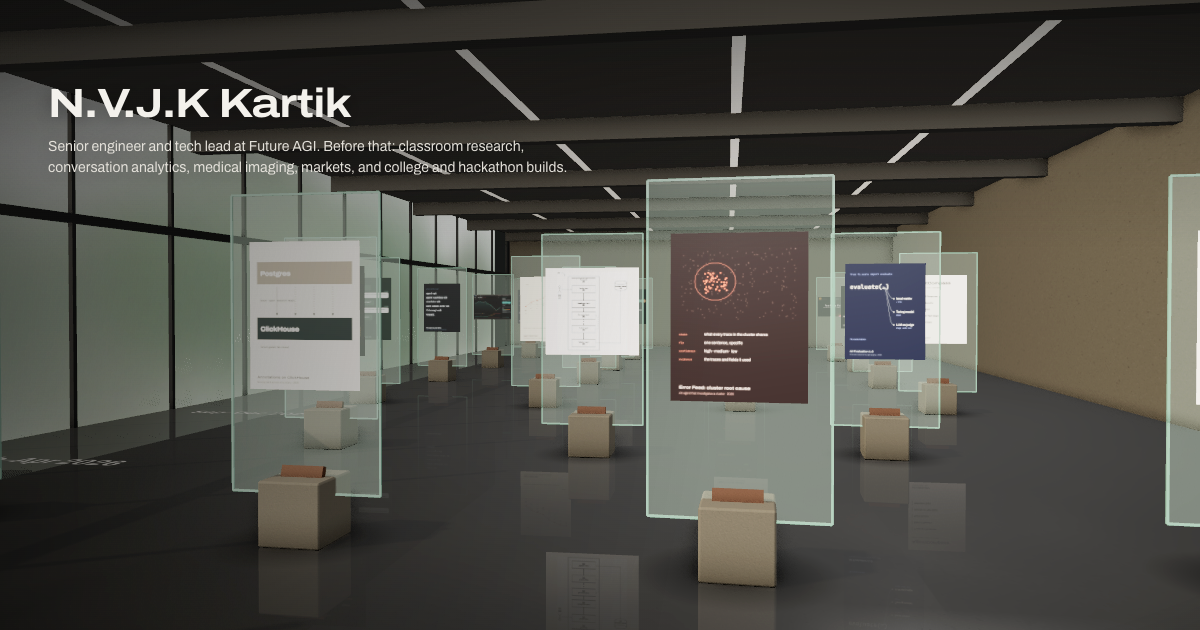
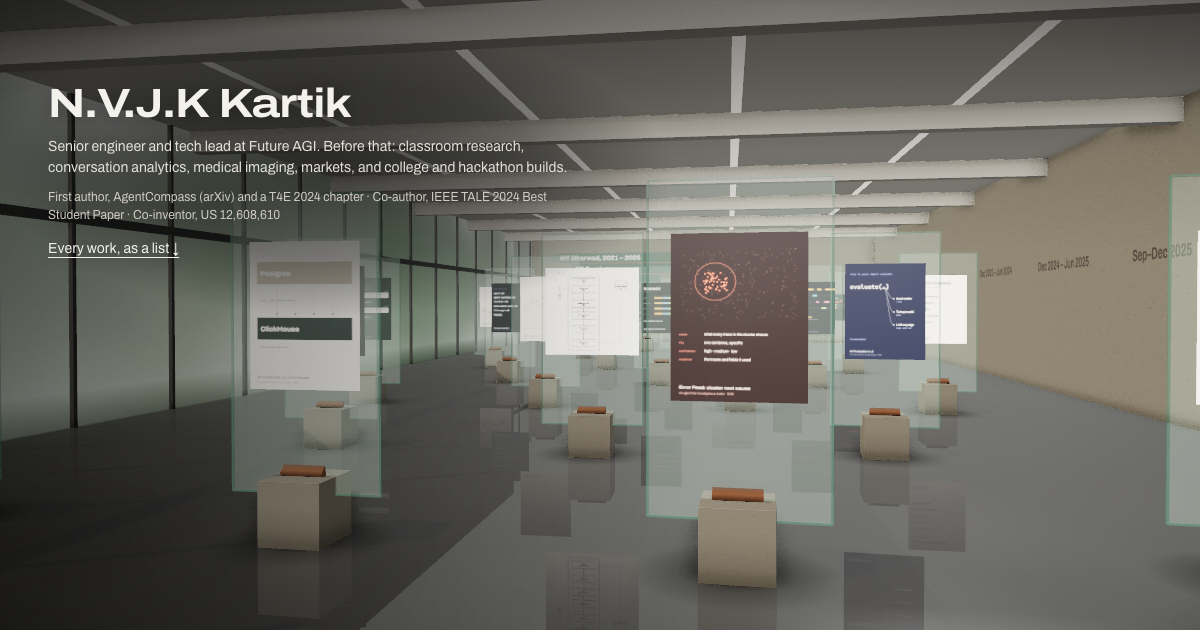
feat(hall): close the room and paint two walls
- A front wall now closes the room behind the entrance (it was open to the
  void; turning round showed the grey background). It faces away from the sun,
  so it gets a small emissive lift.
- The exit wall carries the credits: everyone the easel labels credit, by place,
  oldest first, spelled as credited. content/hall.ts fails the build if a name
  isn't credited on some easel.
- The back wall carries where the work was made: a painted bar per dated
  journey stop on a Jan 2023 to now axis. Year-only ends fade across the year;
  Future AGI shows intern, then full-time.
- The drawn plan closes the entrance wall; posters and OG images regenerated.

diff --git a/site/components/hall/walls.ts b/site/components/hall/walls.ts
@@ -1,0 +1,167 @@
+// The two painted walls, drawn onto canvases the engine hangs on the concrete. Both are paint, not
+// signage: flat colour, big type, nothing thin enough to shimmer as the camera moves.
+// Coordinates are in metres of wall (m = pixels per metre); every wall is 14.2 m wide.
+import type { CreditGroup, Place } from '@/content/hall';
+
+const WALL = 14.2;
+
+/**
+ * The exit wall: "The work in this hall was made with", then every credited name, grouped by place,
+ * flowed through balanced columns so each place gets wall in proportion to its people.
+ * The canvas is a band 2.7 m tall whose top sits 3.55 m above the floor.
+ */
+export function drawCredits(g: CanvasRenderingContext2D, W: number, groups: CreditGroup[], font: string) {
+  const m = W / WALL;
+  const size = 0.19 * m,
+    lead = 0.29 * m;
+  const F = { head: `620 semi-expanded ${size}px ${font}`, name: `430 ${size}px ${font}`, intro: `600 semi-expanded ${size}px ${font}` };
+  type Line = [keyof typeof F, string] | ['gap'];
+  // A name longer than 2.4 m wraps onto two lines of about equal length, so no column grows wide
+  // enough to crowd the next and no word is left on its own.
+  const wrap = (k: keyof typeof F, t: string): Line[] => {
+    g.font = F[k];
+    const w = (x: string) => g.measureText(x).width;
+    if (w(t) <= 2.4 * m) return [[k, t]];
+    const words = t.split(' ');
+    let best = 1;
+    for (let i = 2; i < words.length; i++)
+      if (
+        Math.max(w(words.slice(0, i).join(' ')), w(words.slice(i).join(' '))) <
+        Math.max(w(words.slice(0, best).join(' ')), w(words.slice(best).join(' ')))
+      )
+        best = i;
+    return [
+      [k, words.slice(0, best).join(' ')],
+      [k, words.slice(best).join(' ')],
+    ];
+  };
+  // Blocks never split across columns: the intro, each name, and each place heading with its first name.
+  const blocks: Line[][] = [
+    [
+      ['intro', 'The work'],
+      ['intro', 'in this hall'],
+      ['intro', 'was made with'],
+    ],
+  ];
+  groups.forEach(grp => {
+    blocks.push([['gap'], ['head', grp.place], ...wrap('name', grp.names[0])]);
+    grp.names.slice(1).forEach(n => blocks.push(wrap('name', n)));
+  });
+  const ROWS = 9;
+  const cols: Line[][] = [[]];
+  for (let blk of blocks) {
+    let c = cols[cols.length - 1];
+    if (c.length + blk.length > ROWS) {
+      cols.push((c = []));
+      if (blk[0][0] === 'gap') blk = blk.slice(1); // a gap never starts a column
+    }
+    c.push(...blk);
+  }
+  const width = (l: Line) => (l[0] === 'gap' ? 0 : ((g.font = F[l[0]]), g.measureText(l[1]).width));
+  const widths = cols.map(c => Math.max(0, ...c.map(width)));
+  const left = 0.6 * m,
+    right = W - 0.6 * m;
+  const gutter = (right - left - widths.reduce((a, b) => a + b, 0)) / Math.max(1, cols.length - 1);
+  g.fillStyle = 'rgba(246,244,239,.66)';
+  g.textBaseline = 'alphabetic';
+  let x = left;
+  cols.forEach((c, i) => {
+    let y = 0.3 * m; // first baseline 3.25 m above the floor
+    for (const l of c) {
+      if (l[0] !== 'gap') {
+        g.font = F[l[0]];
+        g.fillText(l[1], x, y);
+      }
+      y += lead;
+    }
+    x += widths[i] + gutter;
+  });
+}
+
+/**
+ * The back wall: where the work was made. One painted bar per place on a time axis from January 2023
+ * to this month. A year-only end fades across that year instead of claiming a month; a start before
+ * the axis fades in from its edge. A change of role (intern to full-time) changes the bar's tone.
+ * The canvas is the whole wall, 4.3 m tall.
+ */
+export function drawPlaces(g: CanvasRenderingContext2D, W: number, places: Place[], font: string, now = new Date()) {
+  const m = W / WALL;
+  const start = 2023 * 12,
+    end = now.getFullYear() * 12 + now.getMonth() + 1;
+  const X0 = 0.6 * m,
+    X1 = W - 0.6 * m;
+  const x = (month: number) => X0 + ((Math.min(end, Math.max(start, month)) - start) / (end - start)) * (X1 - X0);
+  const month = (s: string, edge: 'from' | 'to') =>
+    s === 'now' ? end : s.length === 4 ? +s * 12 + (edge === 'to' ? 12 : 0) : +s.slice(0, 4) * 12 + +s.slice(5, 7) - 1 + (edge === 'to' ? 1 : 0);
+  const deep = [61, 90, 80],
+    paint = (a: number) => `rgba(${deep.join(',')},${a})`;
+  const paper = 'rgba(246,244,239,.92)',
+    ink = 'rgba(27,28,28,.78)';
+  const pitch = 0.46 * m,
+    bh = 0.38 * m,
+    top = 0.55 * m,
+    fs = 0.25 * m,
+    pad = 0.14 * m;
+
+  // Year rules and numerals, thick enough to hold at the far end of the hall.
+  const bottom = top + places.length * pitch;
+  g.font = `700 semi-expanded ${0.5 * m}px ${font}`;
+  for (let y = 2023; y * 12 < end; y++) {
+    const at = x(y * 12);
+    if (y > 2023) {
+      g.fillStyle = 'rgba(27,28,28,.22)';
+      g.fillRect(at - 0.025 * m, top - 0.2 * m, 0.05 * m, bottom - top + 0.35 * m);
+    }
+    g.fillStyle = 'rgba(27,28,28,.5)';
+    g.fillText(String(y), at + (y > 2023 ? 0.12 * m : 0), bottom + 0.72 * m);
+  }
+
+  places.forEach((p, i) => {
+    const a = month(p.from, 'from'),
+      b = month(p.to, 'to');
+    const xa = x(a),
+      xb = x(b),
+      y = top + i * pitch;
+    // Fuzzy ends: a start before the axis fades in over 0.8 m; a year-only end fades across its year.
+    const fadeIn = a < start ? Math.min(0.8 * m, (xb - xa) / 3) : 0;
+    const fadeOut = p.to.length === 4 ? xb - x(b - 12) : 0;
+    const grad = g.createLinearGradient(xa, 0, xb, 0);
+    grad.addColorStop(0, paint(fadeIn ? 0 : 0.88));
+    if (fadeIn) grad.addColorStop(fadeIn / (xb - xa), paint(0.88));
+    if (fadeOut) grad.addColorStop(1 - fadeOut / (xb - xa), paint(0.88));
+    grad.addColorStop(1, paint(fadeOut ? 0 : 0.88));
+    g.font = `700 semi-expanded ${fs}px ${font}`;
+    const base = y + bh / 2 + fs * 0.36;
+
+    if (p.shift) {
+      // Two tones: the lighter first phase, then the solid one. The place is named just before the bar.
+      const xs = x(month(p.shift.at, 'from'));
+      g.fillStyle = paint(0.42);
+      g.fillRect(xa, y, xs - xa, bh);
+      g.fillStyle = paint(0.88);
+      g.fillRect(xs, y, xb - xs, bh);
+      g.fillStyle = ink;
+      g.textAlign = 'right';
+      g.fillText(p.place, xa - pad, base);
+      g.textAlign = 'left';
+      g.fillStyle = 'rgba(27,28,28,.72)';
+      g.fillText(p.shift.before, xa + pad, base);
+      g.fillStyle = paper;
+      g.fillText(p.shift.after, xs + pad, base);
+      return;
+    }
+    g.fillStyle = grad;
+    g.fillRect(xa, y, xb - xa, bh);
+    // A place that began before the axis carries its years, since the axis can't show them.
+    const label = a < start ? `${p.place}, ${p.from} – ${p.to}` : p.place;
+    const tw = g.measureText(label).width;
+    const lx = xa + fadeIn * 0.6 + pad;
+    if (lx + tw + pad <= xb - fadeOut * 0.5) {
+      g.fillStyle = paper;
+      g.fillText(label, lx, base);
+    } else {
+      g.fillStyle = ink;
+      g.fillText(label, xb + pad, base);
+    }
+  });
+}

diff --git a/site/components/hall/engine.ts b/site/components/hall/engine.ts
@@ -8,8 +8,9 @@ import { RenderPass } from 'three/examples/jsm/postprocessing/RenderPass.js';
 import { GTAOPass } from 'three/examples/jsm/postprocessing/GTAOPass.js';
 import { OutputPass } from 'three/examples/jsm/postprocessing/OutputPass.js';
 import { RoundedBoxGeometry } from 'three/examples/jsm/geometries/RoundedBoxGeometry.js';
-import type { Exhibit } from '@/content/hall';
+import type { CreditGroup, Exhibit, Place } from '@/content/hall';
 import { AISLE, EYE, ROW, layout, planFrame } from './layout';
+import { drawCredits, drawPlaces } from './walls';
 
 export type HallEvents = {
   hover: (id: string | null, x: number, y: number) => void;
@@ -26,6 +27,10 @@ export type HallEvents = {
 export type HallOptions = {
   rows: Exhibit[][];
   years: string[];
+  /** Painted on the front wall, by the entrance. */
+  credits: CreditGroup[];
+  /** Painted on the back wall. */
+  places: Place[];
   font: string;
   reduced: boolean;
   mobile: boolean;
@@ -316,6 +321,48 @@ export async function createHall(container: HTMLElement, o: HallOptions): Promis
   const bwall = new THREE.Mesh(keep(new THREE.PlaneGeometry(W, plan.h)), wallMat);
   bwall.position.set(cx, plan.h / 2, plan.z1);
   scene.add(bwall);
+  // The front wall closes the room behind the entrance. It faces away from the sun, so a little
+  // emissive lift keeps it reading as concrete rather than mud.
+  const shade = new THREE.Color(0x6a6a6a);
+  const frontMat = keep(wallMat.clone());
+  frontMat.emissive = shade;
+  frontMat.emissiveMap = wallAlbedo;
+  const fwall = new THREE.Mesh(keep(new THREE.PlaneGeometry(W, plan.h)), frontMat);
+  fwall.rotation.y = Math.PI;
+  fwall.position.set(cx, plan.h / 2, plan.z0);
+  scene.add(fwall);
+  /** Paint on a wall: a lit, transparent plane a centimetre off the concrete, pulled forward in depth so it never fights it. */
+  const paint = (tw: number, th: number, draw: (g: CanvasRenderingContext2D) => void, w: number, h: number, lifted: boolean) => {
+    const map = keep(textTexture(tw, th, draw));
+    const mat = keep(
+      new THREE.MeshStandardMaterial({
+        map,
+        transparent: true,
+        depthWrite: false,
+        roughness: 0.95,
+        polygonOffset: true,
+        polygonOffsetFactor: -2,
+        polygonOffsetUnits: -2,
+      }),
+    );
+    if (lifted) {
+      mat.emissive = shade;
+      mat.emissiveMap = map;
+    }
+    const mesh = new THREE.Mesh(keep(new THREE.PlaneGeometry(w, h)), mat);
+    scene.add(mesh);
+    return mesh;
+  };
+  // Credits at the exit: a band 2.7 m tall whose top is 3.55 m up.
+  const cw = high ? 4096 : 2048,
+    ch = Math.round((cw * 2.7) / W);
+  const credits = paint(cw, ch, g => drawCredits(g, cw, o.credits, o.font), W, 2.7, true);
+  credits.rotation.y = Math.PI;
+  credits.position.set(cx, 3.55 - 1.35, plan.z0 - 0.01);
+  // Where the work was made, across the whole back wall, in the sun.
+  const pw = high ? 2560 : 1280,
+    ph = Math.round((pw * plan.h) / W);
+  paint(pw, ph, g => drawPlaces(g, pw, o.places, o.font), W, plan.h, false).position.set(cx, plan.h / 2, plan.z1 + 0.01);
 
   const skyMat = keep(new THREE.MeshBasicMaterial({ map: keep(skyTexture()), fog: false }));
   const sky = new THREE.Mesh(keep(new THREE.PlaneGeometry(D + 20, 9)), skyMat);

diff --git a/site/content/hall.ts b/site/content/hall.ts
@@ -2,6 +2,7 @@ import { work } from './work';
 import { research } from './research';
 import { speaking } from './more';
 import { posts } from './writing';
+import { journey } from './journey';
 
 // Everything in the hall is derived from the content files, so a label can never disagree with its page.
 // Order is time: the front row is the newest work, the back wall the oldest.
@@ -141,3 +142,64 @@ export const rowYears = (row: Exhibit[]) => {
 };
 
 export const exhibitById = (id: string) => exhibits.find(e => e.id === id);
+
+// ——— the two painted walls ———
+
+/**
+ * The exit wall: everyone the easel labels credit, grouped by where the work was made, oldest first,
+ * spelled exactly as credited. A group's last line names the team when the credit does.
+ */
+export type CreditGroup = { place: string; names: string[] };
+export const madeWith: CreditGroup[] = [
+  { place: 'IIIT Dharwad', names: ['AryanTN05', 'Ashxsh1', 'PlatJack', 'Priyesh Gupta', 'Rohith Yadav', 'Vinayak Rai', 'Vivaan Sharma'] },
+  {
+    place: 'IIT Bombay',
+    names: [
+      'Aarsh Desai',
+      'Ashwin T S',
+      'Manjunath K. Vanahalli',
+      'Priyesh Gupta',
+      'Ramkumar Rajendran',
+      'Vinayak',
+      'Vishwas Badhe',
+      'the Educational Technology group',
+    ],
+  },
+  { place: 'Vocab.AI', names: ['the Vocab.AI team'] },
+  { place: 'NIT Puducherry', names: ['the Department of CSE'] },
+  { place: 'IIT Madras', names: ['RBCDSAI'] },
+  {
+    place: 'Future AGI',
+    names: [
+      'azain-commits',
+      'cdileep23',
+      'commitPirate',
+      'Garvit Sapra',
+      'JayaSurya-27',
+      'KarthikAvinashFI',
+      'nik13',
+      'Nikhil Pareek',
+      'Rishav Hada',
+      'sarthakFuture',
+      'Srikanth Malyala',
+      'velalagan-pixel',
+      'Arvind Narayanamurthy (The Gen Academy)',
+      'and the Future AGI team',
+    ],
+  },
+];
+// A name on the wall must be one an easel label actually credits: this fails the build on a typo or an invention.
+{
+  const credited = exhibits.map(e => e.credit).join(' ');
+  for (const g of madeWith)
+    for (const n of g.names) {
+      const core = n.replace(/^(and )?the /, '');
+      if (!credited.includes(core)) throw new Error(`madeWith: "${n}" (${g.place}) isn't credited on any easel`);
+    }
+}
+
+/** The back wall: where the work was made, as painted bars on a time axis. From the journey's dated stops. */
+export type Place = { place: string; from: string; to: string; shift?: { at: string; before: string; after: string } };
+export const places: Place[] = journey
+  .filter(j => j.span)
+  .map(j => ({ place: j.place.split(' · ')[0], from: j.span![0], to: j.span![1], shift: j.shift }));

diff --git a/site/components/hall/Hall.tsx b/site/components/hall/Hall.tsx
@@ -2,7 +2,7 @@
 
 import Link from 'next/link';
 import { useEffect, useEffectEvent, useRef, useState } from 'react';
-import type { Exhibit } from '@/content/hall';
+import type { CreditGroup, Exhibit, Place } from '@/content/hall';
 import { useMotion } from '@/lib/motion';
 import type { HallController } from './engine';
 import { layout, planFrame, ROW, type Frame } from './layout';
@@ -13,14 +13,14 @@ import s from './Hall.module.css';
 const CRANE_END = 0.85;
 const clamp01 = (x: number) => Math.min(1, Math.max(0, x));
 
-type Props = { rows: Exhibit[][]; years: string[]; name: string; intro: string; proof: string };
+type Props = { rows: Exhibit[][]; years: string[]; credits: CreditGroup[]; places: Place[]; name: string; intro: string; proof: string };
 
 /**
  * The top of the home page: the WebGL hall under an HTML overlay. Everything readable here is HTML;
  * the canvas only reports where the visitor is and what they're looking at. Scrolling lifts the roof
  * off and cranes up to a drawn plan of the room; the catalogue follows.
  */
-export default function Hall({ rows, years, name, intro, proof }: Props) {
+export default function Hall({ rows, years, credits, places, name, intro, proof }: Props) {
   const exhibits = rows.flat();
   const hall = layout(rows);
   const section = useRef<HTMLElement>(null);
@@ -70,6 +70,8 @@ export default function Hall({ rows, years, name, intro, proof }: Props) {
           ctl.current = await createHall(el, {
             rows,
             years,
+            credits,
+            places,
             font,
             reduced: false,
             mobile,
@@ -130,7 +132,7 @@ export default function Hall({ rows, years, name, intro, proof }: Props) {
       ctl.current?.dispose();
       ctl.current = null;
     };
-    // rows/years are static page data; the engine is built once per visit.
+    // rows, years, credits and places are static page data; the engine is built once per visit.
     // eslint-disable-next-line react-hooks/exhaustive-deps
   }, [reduced]);
 

diff --git a/site/app/page.tsx b/site/app/page.tsx
@@ -2,7 +2,7 @@ import Link from 'next/link';
 import SiteHeader from '@/components/SiteHeader';
 import Hall from '@/components/hall/Hall';
 import Catalogue from '@/components/hall/Catalogue';
-import { rows, rowYears } from '@/content/hall';
+import { madeWith, places, rows, rowYears } from '@/content/hall';
 import { profile } from '@/content/profile';
 import { journey } from '@/content/journey';
 import { posts } from '@/content/writing';
@@ -16,7 +16,7 @@ export default function Home() {
     <div className="dark">
       <SiteHeader tone="light" hideName />
       <main id="main">
-        <Hall rows={rows} years={years} name={profile.fullName} intro={profile.wall} proof={profile.proof} />
+        <Hall rows={rows} years={years} credits={madeWith} places={places} name={profile.fullName} intro={profile.wall} proof={profile.proof} />
 
         <section id="work" className={s.section} aria-labelledby="work-h">
           <div className={s.head}>

diff --git a/site/components/hall/Plan.tsx b/site/components/hall/Plan.tsx
@@ -26,7 +26,7 @@ export default function Plan({ rows, mini, active, onHover, youRef }: Props) {
   for (let z = h.z0; z > h.z1; z -= 1.9) mullions.push(z);
   return (
     <svg className={`${s.plan} ${mini ? s.mini : ''}`} viewBox={vb.join(' ')} aria-hidden>
-      <path className={s.walls} d={`M${h.x0} ${h.z0} V${h.z1} H${h.x1} V${h.z0}`} />
+      <path className={s.walls} d={`M${h.x0} ${h.z0} V${h.z1} H${h.x1} V${h.z0} Z`} />
       <line className={s.glass} x1={h.x0} x2={h.x0} y1={h.z0} y2={h.z1} />
       {!mini && mullions.map(z => <line key={z} className={s.mull} x1={h.x0 - 0.14} x2={h.x0 + 0.14} y1={z} y2={z} />)}
       {h.placed.map(p => {

diff --git a/site/README.md b/site/README.md
@@ -37,6 +37,7 @@ npx serve out        # preview the exact files that get deployed
 | Easel positions and the plan's on-screen box (shared by 3D and plan) | `components/hall/layout.ts`                                                          |
 | The room itself (light, glass, camera)                               | `components/hall/engine.ts`                                                          |
 | Wall text, labels, controls, crane                                   | `components/hall/Hall.tsx`                                                           |
+| The painted walls (credits at the exit, places on the back wall)     | `components/hall/walls.ts`, data in `content/hall.ts`                                |
 | Record pages                                                         | `app/work/[slug]`, `app/research/[slug]`, styles in `components/record/`             |
 | Interface studies (Nexus, Centio.AI, Alumni Connect)                 | `components/studies/*.js`, wrapped by `Study.tsx`                                    |
 | Journey (roles, dates)                                               | `content/journey.ts`, shown on About                                                 |
